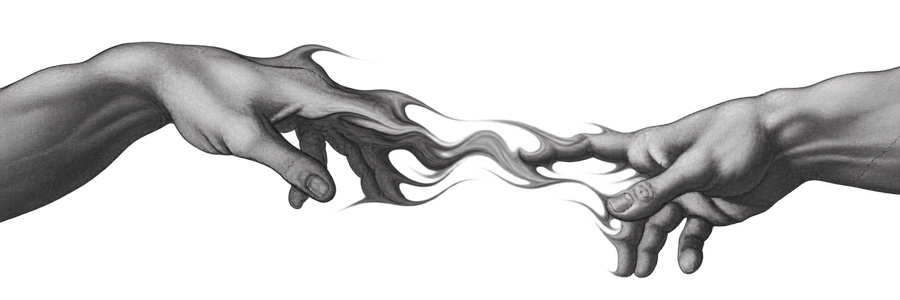
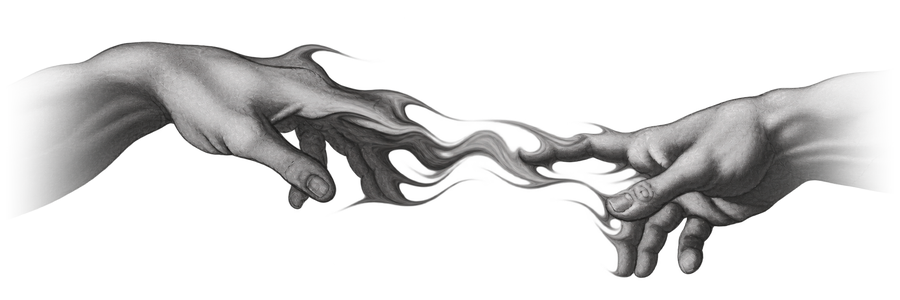
style: smooth feather edges for handsof (alpha + mask 17%)

Changed region(s): [[0.8711, 0.21, 1.0, 0.66], [0.0, 0.18, 0.1244, 0.75]]

diff --git a/src/index.css b/src/index.css
@@ -149,8 +149,9 @@ button { font: inherit; }
   display: block;
   opacity: 0.82;
   filter: contrast(1.04);
-  -webkit-mask-image: linear-gradient(to right, transparent 0%, black 9%, black 91%, transparent 100%);
-  mask-image: linear-gradient(to right, transparent 0%, black 9%, black 91%, transparent 100%);
+  /* smooth feather - 16% fade each side, double-layer for smoother alias */
+  -webkit-mask-image: linear-gradient(to right, transparent 0%, transparent 1%, black 17%, black 83%, transparent 99%, transparent 100%);
+  mask-image: linear-gradient(to right, transparent 0%, transparent 1%, black 17%, black 83%, transparent 99%, transparent 100%);
 }
 [data-theme="dark"] .hands-divider-img img {
   opacity: 0.68;
